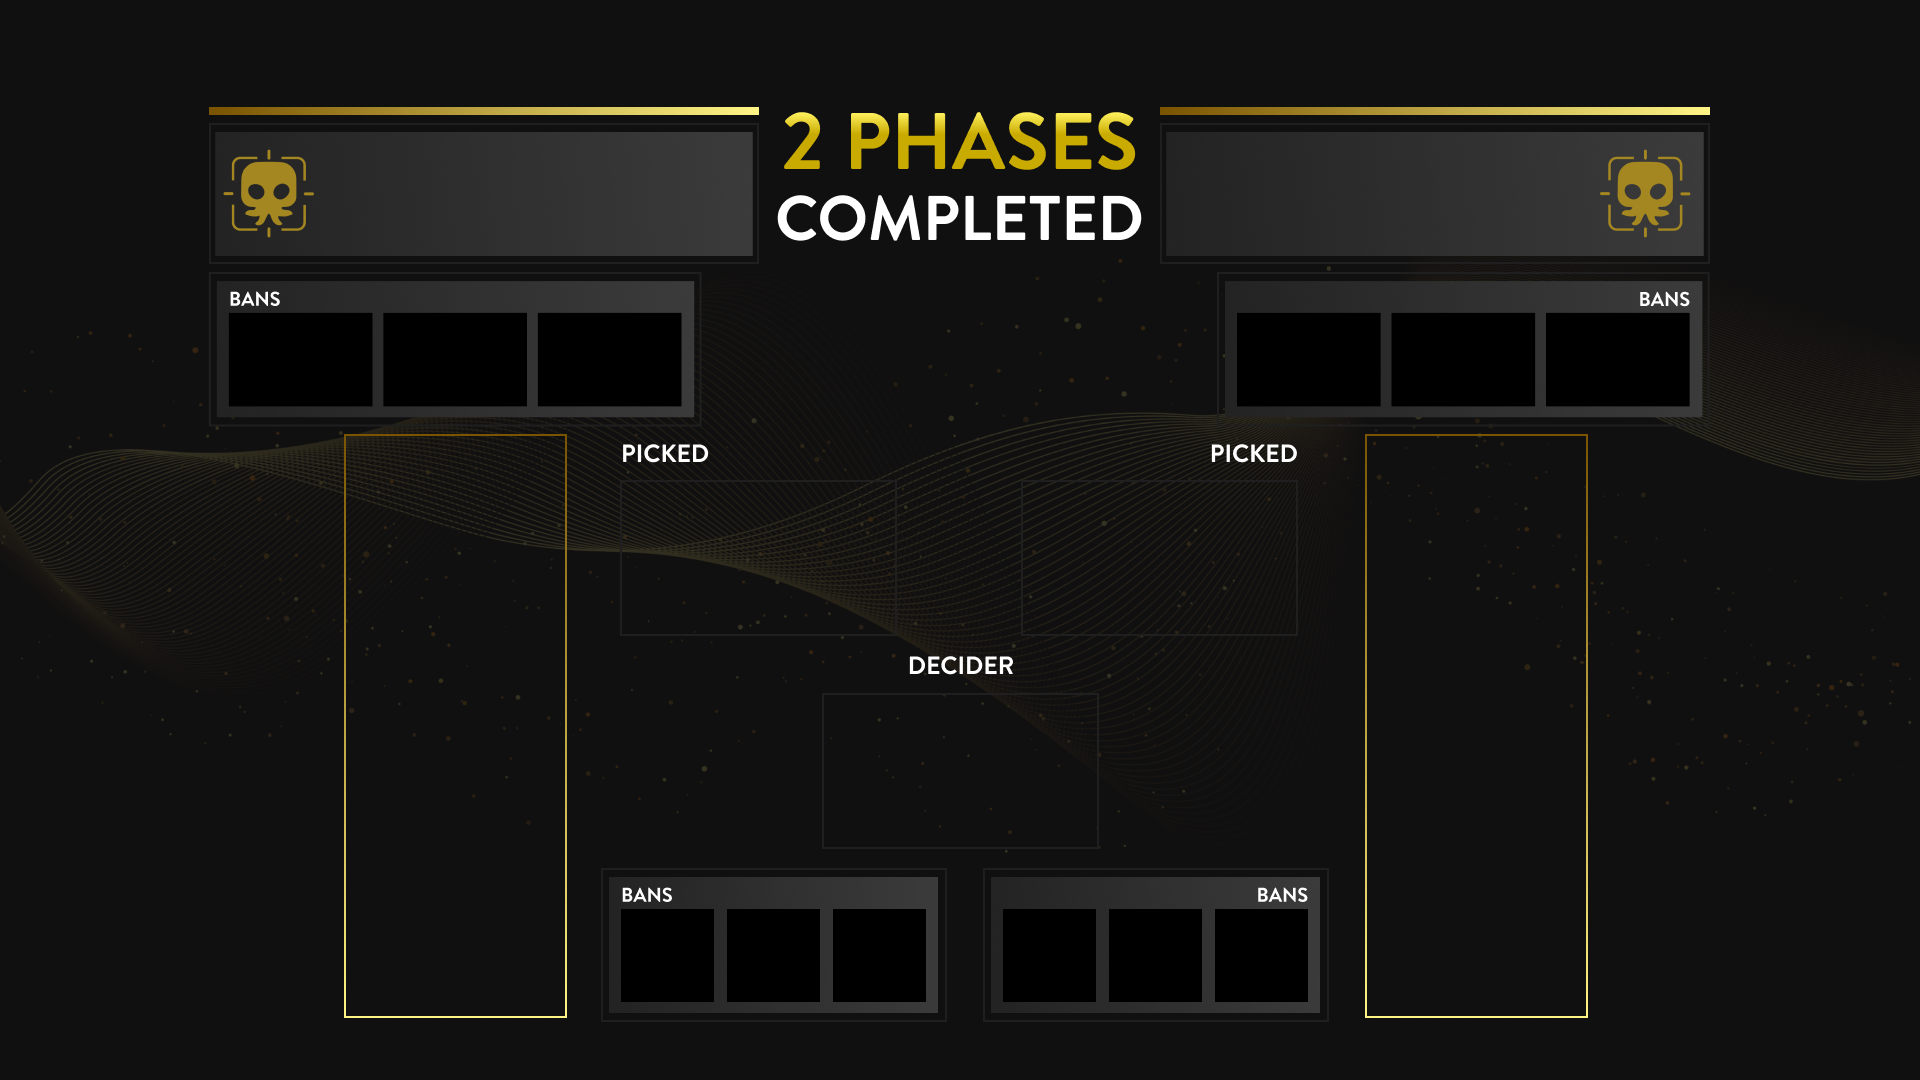
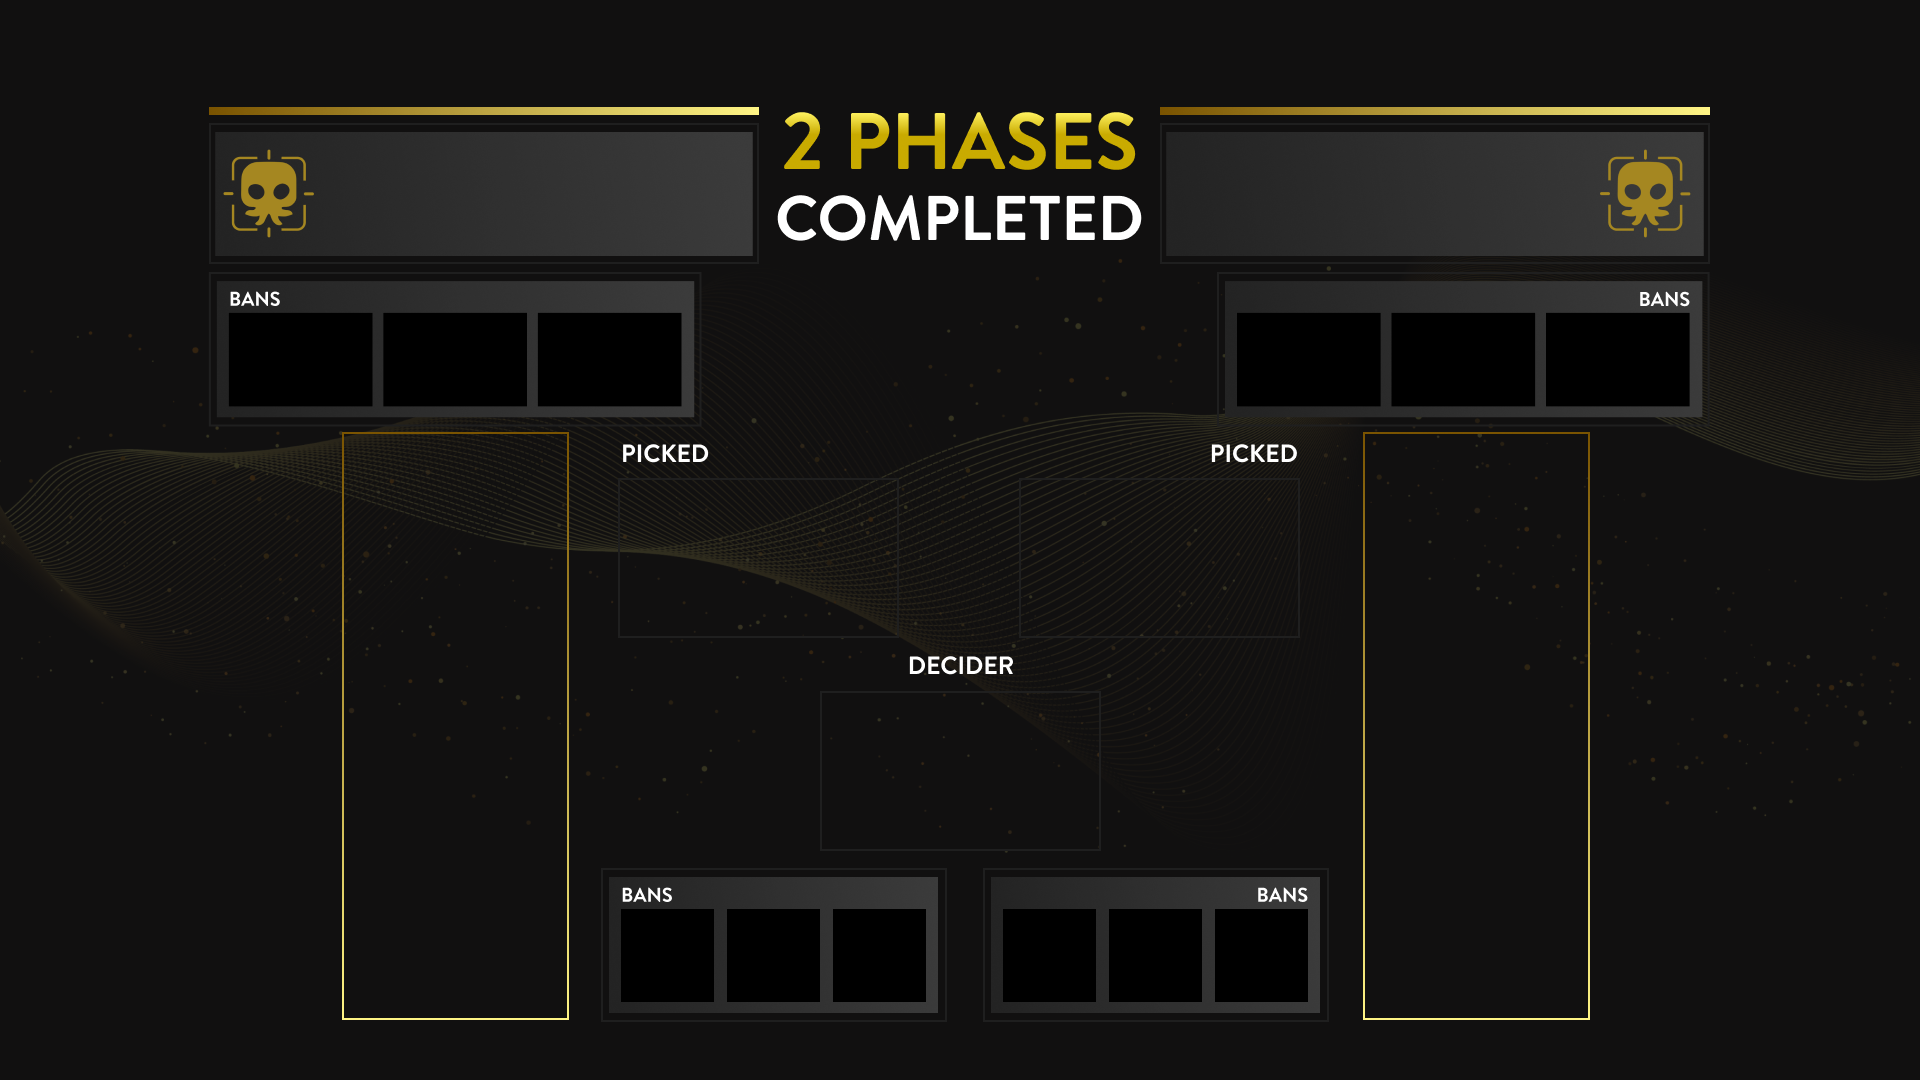
change how phases work

diff --git a/public/overlay.html b/public/overlay.html
@@ -205,6 +205,8 @@
             object-position: center center;
         }
 
+        /* Per-phase box sizes are now applied inline; no global overrides here */
+
         /* Map visual variants */
         .positioned-asset.map.ban {
             filter: grayscale(100%) brightness(0.85) contrast(0.95);
@@ -343,7 +345,7 @@
     <script>
         // Tournament state management
         let tournamentState = {
-            currentPhase: 'MAP_BAN',
+            currentPhase: 'MAP_PHASE',
             teamNames: { P1: 'Player 1', P2: 'Player 2' },
             actionNumber: 1,
             mapsBanned: { P1: [], P2: [] },
@@ -383,7 +385,7 @@
             retryAttempts.clear();
         }
 
-        // Asset positioning coordinates
+        // Phase-specific coordinate system with dimensions and styling data
         // Map slot coordinates for baked-in Phase 1 grid (top-left x,y)
         const MAP_SLOT_COORDS = {
             abyss:   { x: 217,  y: 464 },
@@ -399,91 +401,98 @@
             sunset:  { x: 217,  y: 762 },
             corrode: { x: 519,  y: 763 },
         };
-        const PHASE1_COORDINATES = {
+
+        // Phase-specific configurations with complete layout data
+        const MAP_PHASE_COORDINATES = {
             teamNames: {
-                p1: { x: 342, y: 159 },
-                p2: { x: 1572, y: 159 }
+                p1: { x: 342, y: 159, fontSize: '48px' },
+                p2: { x: 1572, y: 159, fontSize: '48px' }
             },
             p1MapBans: [
-                { x: 229, y: 325 },
-                { x: 384, y: 325 },
-                { x: 538, y: 325 }
+                { x: 229, y: 325, width: 144, height: 95 },
+                { x: 384, y: 325, width: 144, height: 95 },
+                { x: 538, y: 325, width: 144, height: 95 }
             ],
             p2MapBans: [
-                { x: 1546, y: 325 },
-                { x: 1392, y: 325 },
-                { x: 1237, y: 325 }
+                { x: 1546, y: 325, width: 144, height: 95 },
+                { x: 1392, y: 325, width: 144, height: 95 },
+                { x: 1237, y: 325, width: 144, height: 95 }
             ],
             mapPicks: {
-                p1: { x: 734, y: 325 },
-                p2: { x: 1043, y: 325 },
-                decider: { x: 888, y: 325 }
+                p1: { x: 630, y: 480, width: 144, height: 95 },
+                p2: { x: 1021, y: 480, width: 144, height: 95 },
+                decider: { x: 822, y: 693, width: 144, height: 95 }
             }
         };
 
-        const PHASE2_COORDINATES = {
+        const AGENT_PHASE_COORDINATES = {
             teamNames: {
-                p1: { x: 342, y: 159 },
-                p2: { x: 1572, y: 159 }
+                p1: { x: 350, y: 170, fontSize: '46px' },
+                p2: { x: 1565, y: 170, fontSize: '46px' }
             },
             p1AgentBans: [
-                { x: 229, y: 313 },
-                { x: 335, y: 313 },
-                { x: 441, y: 313 }
+                { x: 229, y: 313, width: 93, height: 93 },
+                { x: 335, y: 313, width: 93, height: 93 },
+                { x: 441, y: 313, width: 93, height: 93 }
             ],
             p2AgentBans: [
-                { x: 1596, y: 313 },
-                { x: 1490, y: 313 },
-                { x: 1384, y: 313 }
+                { x: 1596, y: 313, width: 93, height: 93 },
+                { x: 1490, y: 313, width: 93, height: 93 },
+                { x: 1384, y: 313, width: 93, height: 93 }
             ],
             agentPicks: {
-                p1: { x: 211, y: 436 },
-                p2: { x: 1485, y: 436 }
+                p1: { x: 344, y: 434, width: 223, height: 584 },
+                p2: { x: 1365, y: 434, width: 223, height: 584 }
             }
         };
 
         const CONCLUSION_COORDINATES = {
             teamNames: {
-                p1: { x: 342, y: 159 },
-                p2: { x: 1572, y: 159 }
+                p1: { x: 342, y: 159, fontSize: '50px' },
+                p2: { x: 1572, y: 159, fontSize: '50px' }
             },
             p1MapBans: [
-                { x: 229, y: 313 },
-                { x: 384, y: 313 },
-                { x: 538, y: 313 }
+                { x: 229, y: 313, width: 120, height: 80 },
+                { x: 384, y: 313, width: 120, height: 80 },
+                { x: 538, y: 313, width: 120, height: 80 }
             ],
             p2MapBans: [
-                { x: 1546, y: 313 },
-                { x: 1392, y: 313 },
-                { x: 1237, y: 313 }
+                { x: 1546, y: 313, width: 120, height: 80 },
+                { x: 1392, y: 313, width: 120, height: 80 },
+                { x: 1237, y: 313, width: 120, height: 80 }
             ],
             mapPicks: {
-                p1: { x: 604, y: 479 },
-                p2: { x: 1009, y: 479 },
-                decider: { x: 604, y: 682 }
+                p1: { x: 604, y: 479, width: 277, height: 156 },
+                p2: { x: 1009, y: 479, width: 277, height: 156 },
+                decider: { x: 604, y: 682, width: 277, height: 156 }
             },
             p1AgentBans: [
-                { x: 621, y: 909 },
-                { x: 727, y: 909 },
-                { x: 833, y: 909 }
+                { x: 621, y: 909, width: 80, height: 80 },
+                { x: 727, y: 909, width: 80, height: 80 },
+                { x: 833, y: 909, width: 80, height: 80 }
             ],
             p2AgentBans: [
-                { x: 1215, y: 909 },
-                { x: 1109, y: 909 },
-                { x: 1003, y: 909 }
+                { x: 1215, y: 909, width: 80, height: 80 },
+                { x: 1109, y: 909, width: 80, height: 80 },
+                { x: 1003, y: 909, width: 80, height: 80 }
             ],
             agentPicks: {
-                p1: { x: 211, y: 436 },
-                p2: { x: 1366, y: 436 }
+                p1: { x: 211, y: 436, width: 200, height: 520 },
+                p2: { x: 1366, y: 436, width: 200, height: 520 }
             }
         };
 
-        // Phase background mapping
+        // Phase configuration lookup
+        const PHASE_COORDINATES = {
+            'MAP_PHASE': MAP_PHASE_COORDINATES,
+            'AGENT_PHASE': AGENT_PHASE_COORDINATES,
+            'CONCLUSION': CONCLUSION_COORDINATES
+        };
+
+        // Phase background mapping - streamlined to 3 phases
         const phaseBackgrounds = {
-            'MAP_BAN': 'phase-1-bg',
-            'MAP_PICK': 'phase-1-bg',
-            'AGENT_BAN': 'phase-2-bg',
-            'AGENT_PICK': 'phase-2-bg',
+            'MAP_PHASE': 'phase-1-bg',
+            'AGENT_PHASE': 'phase-2-bg',
             'CONCLUSION': 'conclusion-bg'
         };
 
@@ -600,7 +609,7 @@
             let coords;
             if (currentPhase === 'CONCLUSION') {
                 coords = CONCLUSION_COORDINATES.teamNames;
-            } else if (currentPhase === 'AGENT_BAN' || currentPhase === 'AGENT_PICK') {
+            } else if (currentPhase === 'AGENT_PHASE') {
                 coords = PHASE2_COORDINATES.teamNames;
             } else {
                 coords = PHASE1_COORDINATES.teamNames;
@@ -651,8 +660,14 @@
                 fallback.style.width = '223px';
                 fallback.style.height = '584px';
             } else if (asset.type === 'map') {
-                fallback.style.width = '144px';
-                fallback.style.height = '95px';
+                // Default small map slot; enlarge only for pick/decider during conclusion
+                if (tournamentState.currentPhase === 'CONCLUSION' && (asset.slot === 'pick' || asset.slot === 'decider')) {
+                    fallback.style.width = '277px';
+                    fallback.style.height = '156px';
+                } else {
+                    fallback.style.width = '144px';
+                    fallback.style.height = '95px';
+                }
                 fallback.style.objectFit = 'cover';
                 fallback.style.objectPosition = 'center';
             } else {
@@ -707,6 +722,29 @@
             img.src = getAssetFilePath(asset.asset, asset.type);
             img.style.left = `${asset.position.x}px`;
             img.style.top = `${asset.position.y}px`;
+            // Phase-aware sizing for maps and agent banners
+            if (asset.type === 'map') {
+                // Default small map slot
+                let w = 144, h = 95;
+                // Enlarge only when current phase uses large pick/decider boxes
+                if (tournamentState.currentPhase === 'CONCLUSION' && (asset.slot === 'pick' || asset.slot === 'decider')) {
+                    w = 277; h = 156;
+                }
+                img.style.width = `${w}px`;
+                img.style.height = `${h}px`;
+                img.style.objectFit = 'cover';
+                img.style.objectPosition = 'center';
+            } else if (asset.type === 'agent-banner') {
+                img.style.width = '223px';
+                img.style.height = '584px';
+                img.style.objectFit = 'cover';
+                img.style.objectPosition = 'center';
+            } else if (asset.type === 'agent-icon') {
+                img.style.width = '93px';
+                img.style.height = '93px';
+                img.style.objectFit = 'contain';
+                img.style.objectPosition = 'center';
+            }
             img.alt = `${asset.player} ${asset.slot} - ${asset.asset}`;
             
             // Enhanced error handling with retry logic
@@ -766,7 +804,7 @@
             const shouldRevealAssets = timerState === 'finished' || currentPhase === 'CONCLUSION';
 
             // Phase 1 and Conclusion: Map assets
-            if (currentPhase === 'MAP_BAN' || currentPhase === 'MAP_PICK' || currentPhase === 'CONCLUSION') {
+            if (currentPhase === 'MAP_PHASE' || currentPhase === 'CONCLUSION') {
                 const coords = currentPhase === 'CONCLUSION' ? CONCLUSION_COORDINATES : PHASE1_COORDINATES;
 
                 // P1 Map Bans
@@ -861,7 +899,7 @@
             }
 
             // Phase 2 and Conclusion: Agent assets
-            if (currentPhase === 'AGENT_BAN' || currentPhase === 'AGENT_PICK' || currentPhase === 'CONCLUSION') {
+            if (currentPhase === 'AGENT_PHASE' || currentPhase === 'CONCLUSION') {
                 const coords = currentPhase === 'CONCLUSION' ? CONCLUSION_COORDINATES : PHASE2_COORDINATES;
 
                 // P1 Agent Bans
@@ -1074,8 +1112,8 @@
             const overlay = document.getElementById('map-overlay-container');
             if (!overlay) return;
 
-            // Only active in map phases
-            if (!(state.currentPhase === 'MAP_BAN' || state.currentPhase === 'MAP_PICK')) {
+            // Only active in map phase
+            if (state.currentPhase !== 'MAP_PHASE') {
                 overlay.innerHTML = '';
                 return;
             }
@@ -1186,7 +1224,7 @@
 
         // Test function for development
         window.testPhaseTransition = function() {
-            const phases = ['MAP_BAN', 'MAP_PICK', 'AGENT_BAN', 'AGENT_PICK', 'CONCLUSION'];
+            const phases = ['MAP_PHASE', 'AGENT_PHASE', 'CONCLUSION'];
             let currentIndex = 0;
             
             setInterval(() => {
@@ -1202,7 +1240,7 @@
         window.testStaggeredReveal = function() {
             // Mock some assets for testing
             updateTournamentState({
-                currentPhase: 'MAP_BAN',
+                currentPhase: 'MAP_PHASE',
                 mapsBanned: { 
                     P1: ['ascent', 'bind', 'haven'], 
                     P2: ['lotus', 'pearl', 'split'] 

diff --git a/src/utils/tournamentHelpers.ts b/src/utils/tournamentHelpers.ts
@@ -46,15 +46,13 @@ export function calculateCurrentPlayer(actionNumber: number, firstPlayer: Player
 
 /**
  * Get current tournament phase based on action number
+ * Streamlined to 3 phases: MAP_PHASE (1-9), AGENT_PHASE (10-17), CONCLUSION
  */
 export function getCurrentPhase(actionNumber: number): TournamentPhase {
-  if (actionNumber < 1) return 'MAP_BAN';
-  if (actionNumber <= 6) return 'MAP_BAN';      // Actions 1-6: Map bans
-  if (actionNumber <= 8) return 'MAP_PICK';     // Actions 7-8: Map picks
-  if (actionNumber === 9) return 'MAP_PICK';    // Action 9: Decider (still map phase)
-  if (actionNumber <= 15) return 'AGENT_BAN';   // Actions 10-15: Agent bans
-  if (actionNumber <= 17) return 'AGENT_PICK';  // Actions 16-17: Agent picks
-  return 'CONCLUSION';                          // After action 17
+  if (actionNumber < 1) return 'MAP_PHASE';
+  if (actionNumber <= 9) return 'MAP_PHASE';     // Actions 1-9: Map bans, picks, and decider
+  if (actionNumber <= 17) return 'AGENT_PHASE';  // Actions 10-17: Agent bans and picks
+  return 'CONCLUSION';                           // After action 17
 }
 
 /**
@@ -197,11 +195,9 @@ export function getPhaseStartAction(actionNumber: number): number {
   const phase = getCurrentPhase(actionNumber);
   
   switch (phase) {
-    case 'MAP_BAN': return 1;      // Actions 1-6
-    case 'MAP_PICK': return 7;     // Actions 7-9
-    case 'AGENT_BAN': return 10;   // Actions 10-15
-    case 'AGENT_PICK': return 16;  // Actions 16-17
-    case 'CONCLUSION': return 17;  // Tournament complete
+    case 'MAP_PHASE': return 1;      // Actions 1-9: Map bans, picks, and decider
+    case 'AGENT_PHASE': return 10;   // Actions 10-17: Agent bans and picks
+    case 'CONCLUSION': return 17;    // Tournament complete
     default: return 1;
   }
 }

diff --git a/src/services/adminStore.ts b/src/services/adminStore.ts
@@ -73,7 +73,7 @@ const emitOverlayUpdate = async (state: any) => {
 
 export const useTournamentStore = create<TournamentStore>((set, get) => ({
   // Initial tournament state
-  currentPhase: 'MAP_BAN',
+  currentPhase: 'MAP_PHASE',
   currentPlayer: 'P1',
   actionNumber: 1,
   firstPlayer: 'P1',
@@ -169,6 +169,7 @@ export const useTournamentStore = create<TournamentStore>((set, get) => ({
       const newCurrentPlayer = calculateCurrentPlayer(targetAction, state.firstPlayer);
       const newPhase = getCurrentPhase(targetAction);
       // If phase changes, gate advancement until admin approves
+      // With streamlined phases, transitions happen at: action 9→10 (MAP_PHASE→AGENT_PHASE)
       if (newPhase !== state.currentPhase) {
         const gated: TournamentStore = {
           ...state,
@@ -606,7 +607,7 @@ export const useTournamentStore = create<TournamentStore>((set, get) => ({
       
       return {
         // Reset tournament state
-        currentPhase: 'MAP_BAN',
+        currentPhase: 'MAP_PHASE',
         currentPlayer: null,
         actionNumber: 1,
         phaseAdvancePending: null,

diff --git a/src/types/admin.types.ts b/src/types/admin.types.ts
@@ -2,7 +2,7 @@
 
 // Core tournament types
 export type Player = 'P1' | 'P2';
-export type TournamentPhase = 'MAP_BAN' | 'MAP_PICK' | 'AGENT_BAN' | 'AGENT_PICK' | 'CONCLUSION';
+export type TournamentPhase = 'MAP_PHASE' | 'AGENT_PHASE' | 'CONCLUSION';
 export type ActionType = 'MAP_BAN' | 'MAP_PICK' | 'DECIDER' | 'AGENT_BAN' | 'AGENT_PICK';
 
 // Timer states
